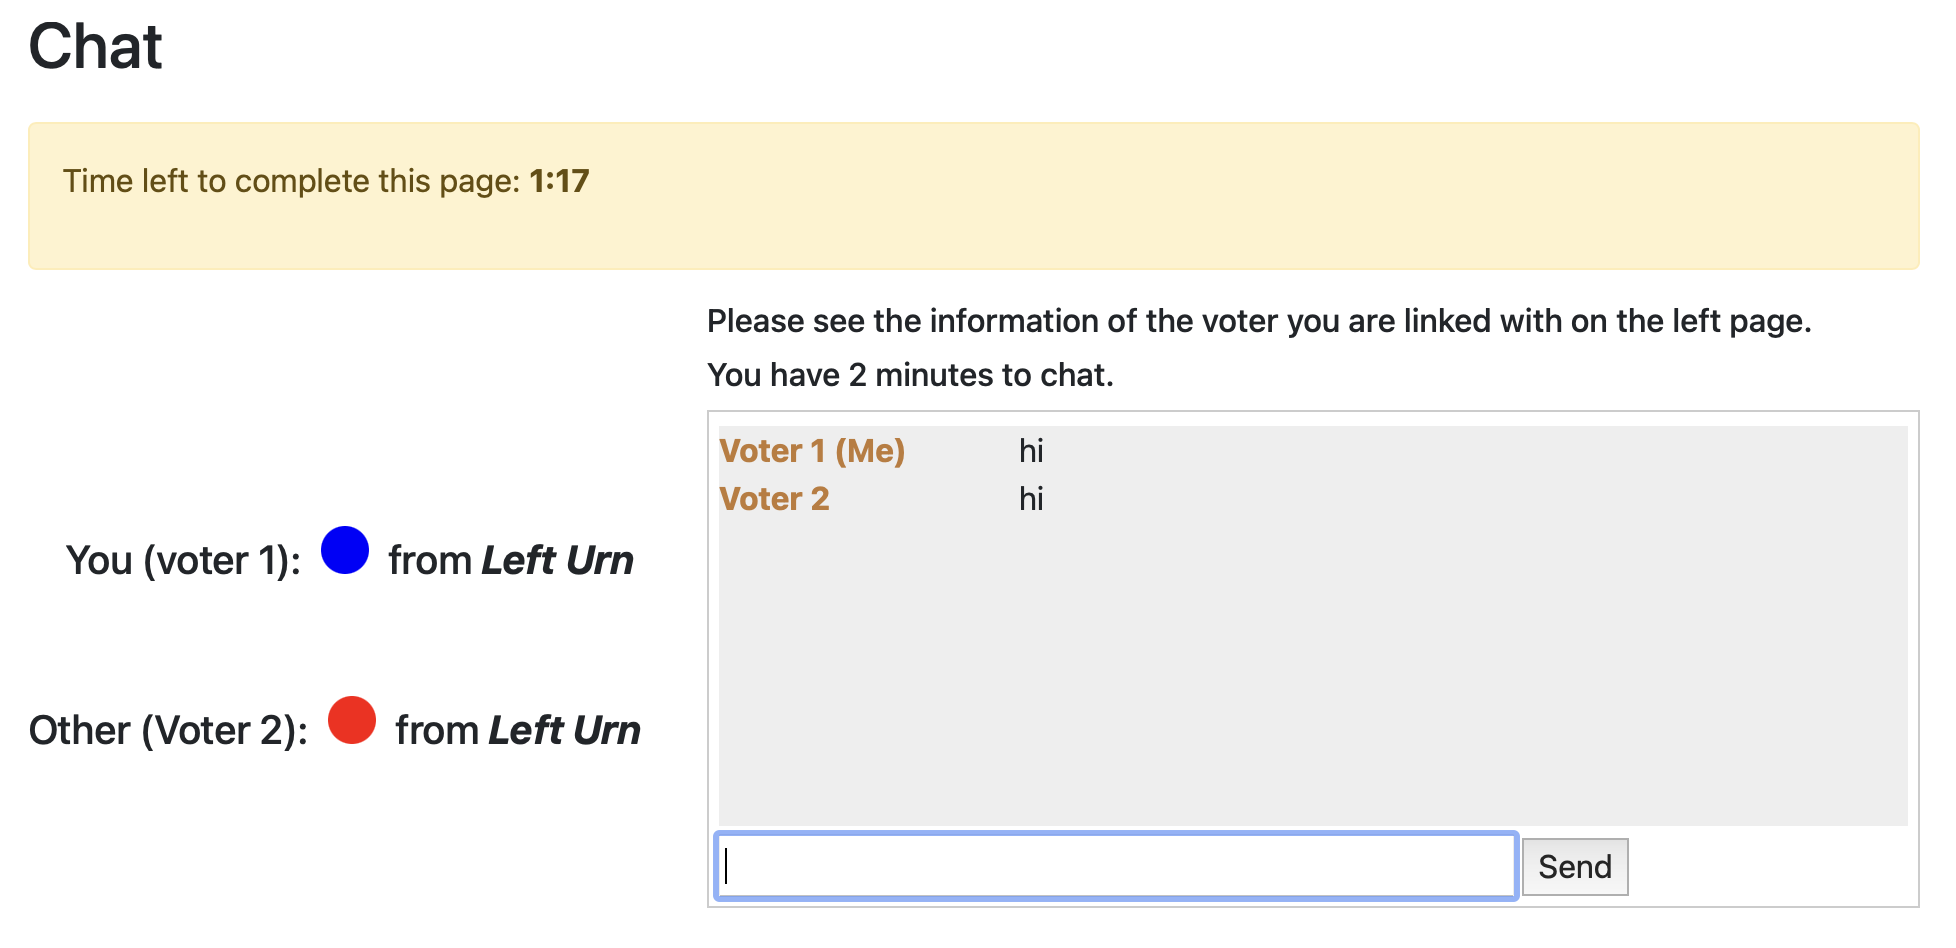
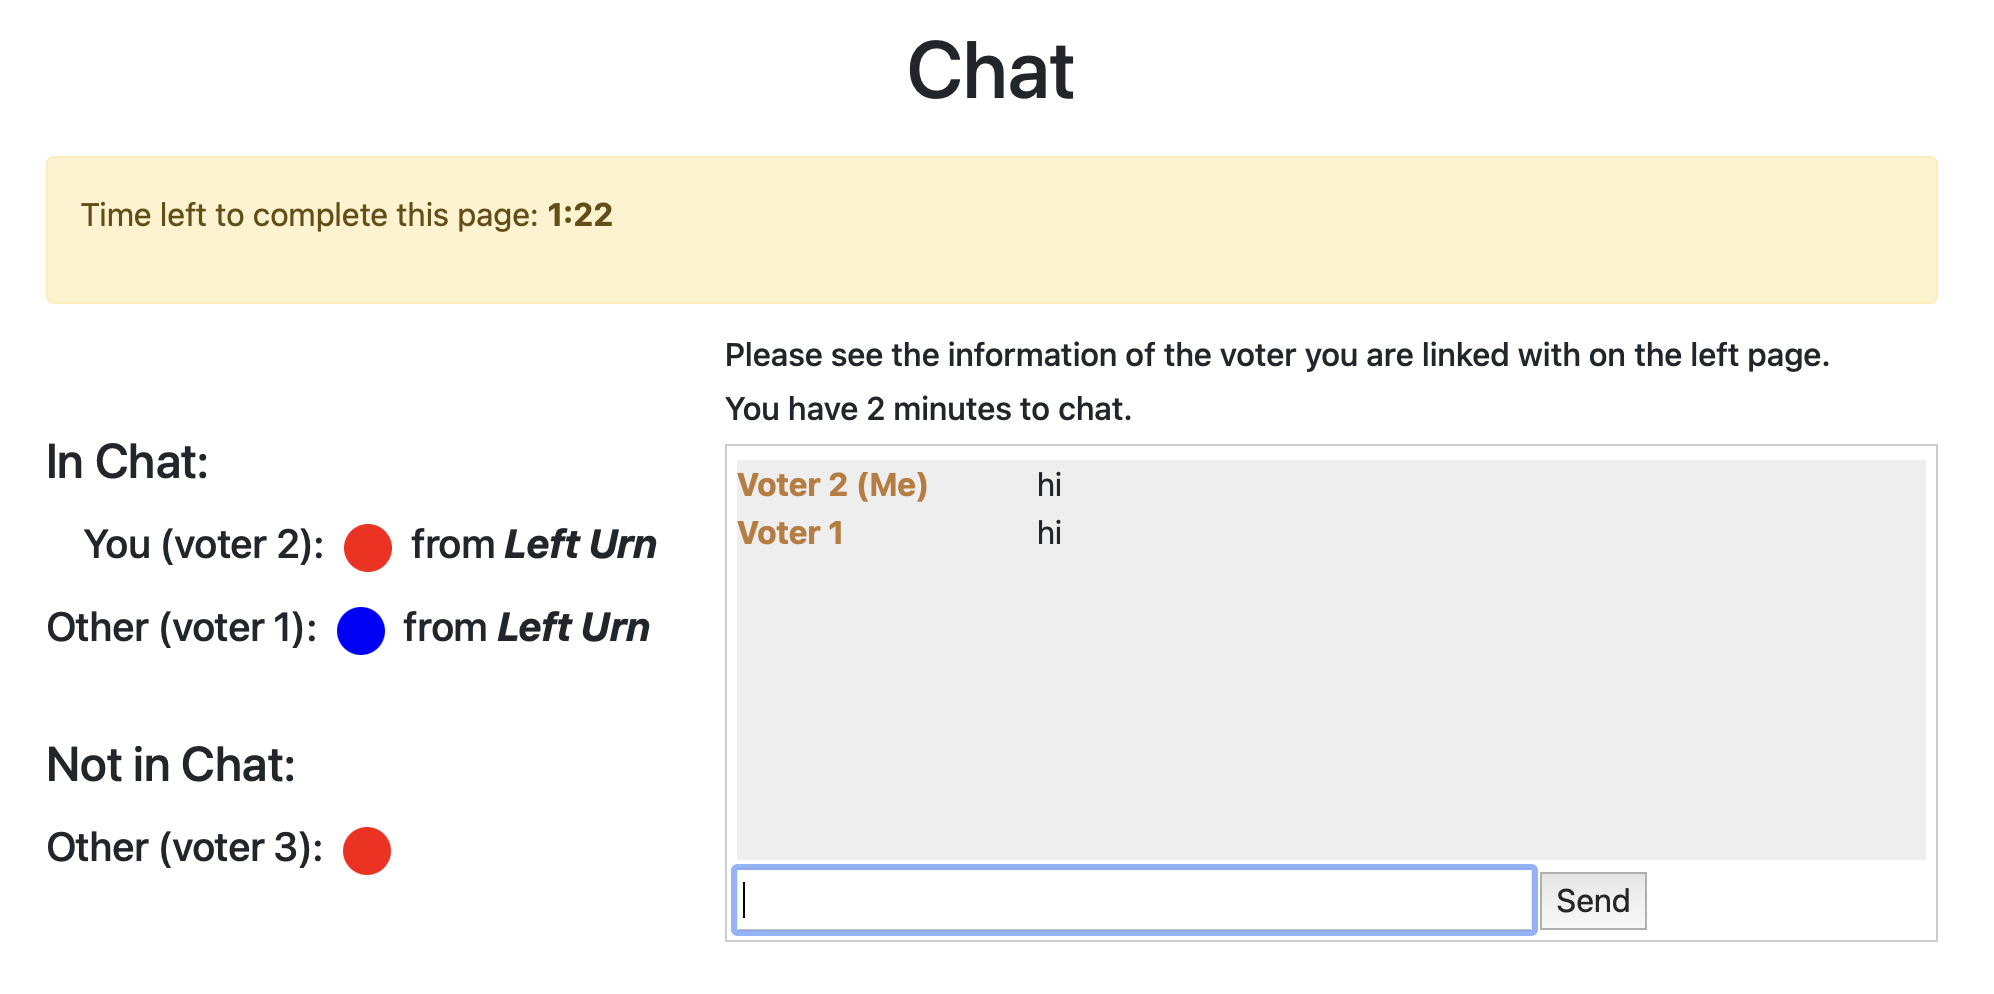
add more details

diff --git a/voting/Voting/Chat.html b/voting/Voting/Chat.html
@@ -1,23 +1,42 @@
 {% load otreechat %}
-{{ block title }}Chat{{ endblock }}
+   {{ block title }}
+ <div style="text-align: center;">
+    <h1>Chat</h1>
+ </div>
+    {{ endblock }}
 {{ block content }}
 
 <div style="display: flex; justify-content: space-between;">
     <div style="flex: 1;">
         <br>
         <br>
-        <br>
-        <br>
-        {% for participant in participants_info %}
+<h4>In Chat:</h4>
+{% for participant in participants_info %}
+    {% if participant.is_chat_participant %}
         <p>
             {% if participant.is_self %}
-        <h5> &nbsp &nbsp You (voter {{ participant.id_in_group }}): <span style="{{ participant.player_signal_style }}"></span> from <strong><em>{{ participant.quality_representation }}</em></strong></h5>
+                <h5> &nbsp &nbsp You (voter {{ participant.id_in_group }}): <span style="{{ participant.player_signal_style }}"></span> from <strong><em>{{ participant.quality_representation }}</em></strong></h5>
             {% else %}
-        <br>
-            <h5> Other (Voter {{ participant.id_in_group }}): <span style="{{ participant.player_signal_style}}"></span> from <strong><em>{{ participant.quality_representation }}</em></strong></h5>
+                <h5> Other (voter {{ participant.id_in_group }}): <span style="{{ participant.player_signal_style }}"></span> from <strong><em>{{ participant.quality_representation }}</em></strong></h5>
             {% endif %}
         </p>
-        {% endfor %}
+    {% endif %}
+{% endfor %}
+
+<br>
+<h4>Not in Chat:</h4>
+{% for participant in participants_info %}
+    {% if not participant.is_chat_participant %}
+        <p>
+            {% if participant.is_self %}
+                <h5> &nbsp &nbsp You (voter {{ participant.id_in_group }}): <span style="{{ participant.player_signal_style }}"></span> from <strong><em>{{ participant.quality_representation }}</em></strong></h5>
+            {% else %}
+                <h5> Other (voter {{ participant.id_in_group }}): <span style="{{ participant.player_signal_style }}"></span> </h5>
+            {% endif %}
+        </p>
+    {% endif %}
+{% endfor %}
+
     </div>
 
     <div style="flex: 1.9; padding-left: 20px;">

diff --git a/voting/Voting/NonChat.html b/voting/Voting/NonChat.html
@@ -1,15 +1,50 @@
 {% load otreechat %}
-{{ block title }}Please wait{{ endblock }}
+
+{{ extends 'global/Page.html' }}
+   {{ block title }}
+ <div style="text-align: center;">
+    <h1>Please wait</h1>
+ </div>
+    {{ endblock }}
+
 {{ block content }}
+        <style>
+            .ribbon {
+               position: relative;
+               top: -16px;
+               right: -706px;
+            }
+            .blue {
+                color: blue;
+            }
+        </style>
+
+         <div style="text-align: justify;" class="card bg-light mb-3  ">
+            <div class="card-body">
+                <br>
+
+                <h5>Your got <span style="{{ player_signal_style }}"></span> from <strong><em>{{ quality }}</em></strong>. </h5>
+<br>
+<h5>Your group members got:</h5>
+<br>
+<div style="text-align: center; display: flex; justify-content: center; gap: 80px;">
+    {% for signal_info in other_signals_info %}
+        <h5><span style="{{ signal_info.signal_style }}"></span></h5>
+    {% endfor %}
+</div>
 
 <div>
+<br>
+<br>
 
-
-        <h6>You are not successfully linked with anyone in your group.</h6>
-        <h6>Please wait for 2 minutes... </h6>
+        <h5>You are not successfully linked with anyone in your group.</h5>
+        <h5>Please wait for 2 minutes... </h5>
 
 </div>
 
+            </div>
+        </div>
+        <br>
 
 
 {{ endblock }}

diff --git a/voting/payment_info/Instruction.html b/voting/payment_info/Instruction.html
@@ -1,0 +1,40 @@
+
+
+
+{{ extends 'global/Page.html' }}
+   {{ block title }}
+ <div style="text-align: center;">
+    <h1>Survey: Instructions</h1>
+ </div>
+    {{ endblock }}
+
+{{ block content }}
+        <style>
+            .ribbon {
+               position: relative;
+               top: -16px;
+               right: -706px;
+            }
+            .blue {
+                color: blue;
+            }
+        </style>
+
+         <div style="text-align: justify;" class="card bg-light mb-3  ">
+            <div class="card-body">
+                <br>
+
+<ul>
+  <li>  Before you are finished with today's experiment, we ask that you please answer a few more questions.  </li>
+
+</ul>
+                                <br>
+                                <br>
+                                <br>
+
+            </div>
+        </div>
+        <br>
+
+
+{{ endblock }}

diff --git a/voting/Voting/__init__.py b/voting/Voting/__init__.py
@@ -437,6 +437,11 @@ class Comprehension_Test(Page):
 
 
 
+class ResultsWaitPage(WaitPage):
+    wait_for_all_groups = True
+
+
+
 class Info(Page):
     @staticmethod
     def vars_for_template(player):
@@ -450,7 +455,7 @@ class Info(Page):
         else:  # 'b'
             player_signal_color = "blue"
 
-        player_signal_style = f"height: 1.2em; width: 1.2em; background-color: {player_signal_color}; border-radius: 50%; display: inline-block; margin: 0 5px;"
+        player_signal_style = f"height: 1.2em; width: 1.2em; background-color: {player_signal_color}; border-radius: 50%; display: inline-block; vertical-align: middle; margin: 0 5px;"
 
         other_signals_info = []
         for p in player.group.get_players():
@@ -462,7 +467,7 @@ class Info(Page):
 
                 other_signals_info.append({
                     'player_id': p.id_in_group,
-                    'signal_style': f"height: 1.2em; width: 1.2em; background-color: {signal_color}; border-radius: 50%; display: inline-block; margin: 0 5px;",
+                    'signal_style': f"height: 1.2em; width: 1.2em; background-color: {signal_color}; border-radius: 50%; display: inline-block; vertical-align: middle; margin: 0 5px;",
                 })
 
         return dict(
@@ -470,7 +475,7 @@ class Info(Page):
             player_signal_style=player_signal_style,
             other_signals_info=other_signals_info,
         )
-
+    timeout_seconds = 60
 
 
 class Ranking(Page):
@@ -489,7 +494,7 @@ class Ranking(Page):
         else:  # 'b'
             player_signal_color = "blue"
 
-        player_signal_style = f"height: 1.2em; width: 1.2em; background-color: {player_signal_color}; border-radius: 50%; display: inline-block; margin: 0 5px;"
+        player_signal_style = f"height: 1.2em; width: 1.2em; background-color: {player_signal_color}; border-radius: 50%; display: inline-block; vertical-align: middle; margin: 0 5px;"
 
         other_signals_info = []
         for p in player.group.get_players():
@@ -501,7 +506,7 @@ class Ranking(Page):
 
                 other_signals_info.append({
                     'player_id': p.id_in_group,
-                    'signal_style': f"height: 1.2em; width: 1.2em; background-color: {signal_color}; border-radius: 50%; display: inline-block; margin: 0 5px;",
+                    'signal_style': f"height: 1.2em; width: 1.2em; background-color: {signal_color}; border-radius: 50%; display: inline-block; vertical-align: middle; margin: 0 5px;",
                 })
 
         return dict(
@@ -545,22 +550,27 @@ class ResultsWaitPage1(WaitPage):
 
 
 
+class ResultsWaitPage1a(WaitPage):
+    wait_for_all_groups = True
+
+
+
 class Chat(Page):
 
     @staticmethod
     def vars_for_template(player):
         chat_participants_ids = json.loads(player.group.chat_participants_record)
+        all_players = player.group.get_players()
         participants_info = []
 
-        for participant_id in chat_participants_ids:
-            participant = next(p for p in player.group.get_players() if p.id_in_group == participant_id)
 
+        for participant in all_players:
             if participant.signals == 'r':
                 player_signal_color = "red"
-            else:   # b
+            else:  # b
                 player_signal_color = "blue"
 
-            player_signal_style = f"height: 1.2em; width: 1.2em; background-color: {player_signal_color}; border-radius: 50%; display: inline-block; margin: 0 5px;"
+            player_signal_style = f"height: 1.2em; width: 1.2em; background-color: {player_signal_color}; border-radius: 50%; display: inline-block; vertical-align: middle; margin: 0 5px;"
 
             if participant.qualities == 'l':
                 quality_representation = "Right urn"
@@ -571,7 +581,8 @@ class Chat(Page):
                 'id_in_group': participant.id_in_group,
                 'quality_representation': quality_representation,
                 'player_signal_style': player_signal_style,
-                'is_self': participant.id_in_group == player.id_in_group
+                'is_self': participant.id_in_group == player.id_in_group,
+                'is_chat_participant': participant.id_in_group in chat_participants_ids
             })
 
         participants_info = sorted(participants_info, key=lambda x: not x['is_self'])
@@ -588,6 +599,40 @@ class Chat(Page):
 
 
 class NonChat(Page):
+
+    @staticmethod
+    def vars_for_template(player):
+        if player.qualities == 'l':
+            quality_display = "Right urn"
+        else:
+            quality_display = "Left urn"
+
+        if player.signals == 'r':
+            player_signal_color = "red"
+        else:  # 'b'
+            player_signal_color = "blue"
+
+        player_signal_style = f"height: 1.2em; width: 1.2em; background-color: {player_signal_color}; border-radius: 50%; display: inline-block; vertical-align: middle; margin: 0 5px;"
+
+        other_signals_info = []
+        for p in player.group.get_players():
+            if p.id_in_group != player.id_in_group:
+                if p.signals == 'r':
+                    signal_color = "red"
+                else:  # 'b'
+                    signal_color = "blue"
+
+                other_signals_info.append({
+                    'player_id': p.id_in_group,
+                    'signal_style': f"height: 1.2em; width: 1.2em; background-color: {signal_color}; border-radius: 50%; display: inline-block; vertical-align: middle; margin: 0 5px;",
+                })
+
+        return dict(
+            quality=quality_display,
+            player_signal_style=player_signal_style,
+            other_signals_info=other_signals_info,
+        )
+
     @staticmethod
     def is_displayed(player):
         chat_participants = json.loads(player.group.chat_participants_record)
@@ -616,8 +661,6 @@ class ResultsWaitPage3(WaitPage):
 
 class ResultsWaitPage4(WaitPage):
     wait_for_all_groups = True
-    def is_displayed(player:Player):
-        return player.round_number==C.NUM_ROUNDS
 
 
 
@@ -637,8 +680,8 @@ class ResultsWaitPage5(WaitPage):
 
 
 class Results(Page):
-    pass
+    timeout_seconds = 60
 
 
 
-page_sequence = [StartRoundWaitPage, Welcome, General_Instructions, Main_Instructions, Comprehension_Test, Info, Ranking, ResultsWaitPage1, Chat, NonChat, ResultsWaitPage2,  Voting, ResultsWaitPage3, Results, ResultsWaitPage4, ResultsWaitPage5]
+page_sequence = [StartRoundWaitPage, Welcome, General_Instructions, Main_Instructions, Comprehension_Test, ResultsWaitPage, Info, Ranking, ResultsWaitPage1, ResultsWaitPage1a, Chat, NonChat, ResultsWaitPage2,  Voting, ResultsWaitPage3, ResultsWaitPage4, Results, ResultsWaitPage5]

diff --git a/voting/payment_info/__init__.py b/voting/payment_info/__init__.py
@@ -39,6 +39,13 @@ class Player(BasePlayer):
     Age = models.StringField()
     How_choose = models.StringField()
 
+
+
+class Instruction(Page):
+    pass
+
+
+
 class Survey(Page):
     form_model = 'player'
     form_fields = ['Gender', 'Age', 'Major', 'How_choose']
@@ -52,8 +59,10 @@ class Survey(Page):
 
         participant.payoff += player.money_to_pay
 
+
+
 class Payment(Page):
     pass
 
 
-page_sequence = [Survey, Payment]
+page_sequence = [Instruction, Survey, Payment]
